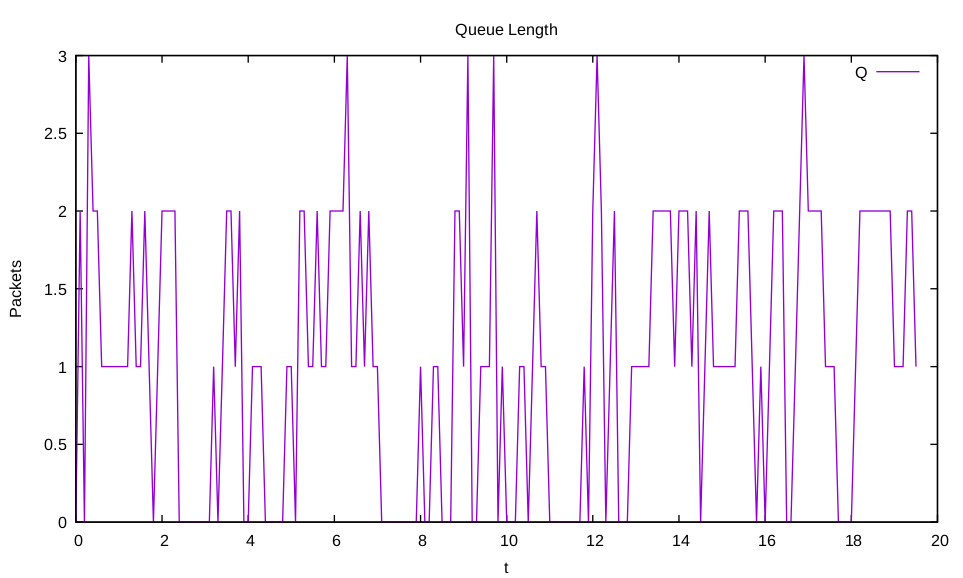
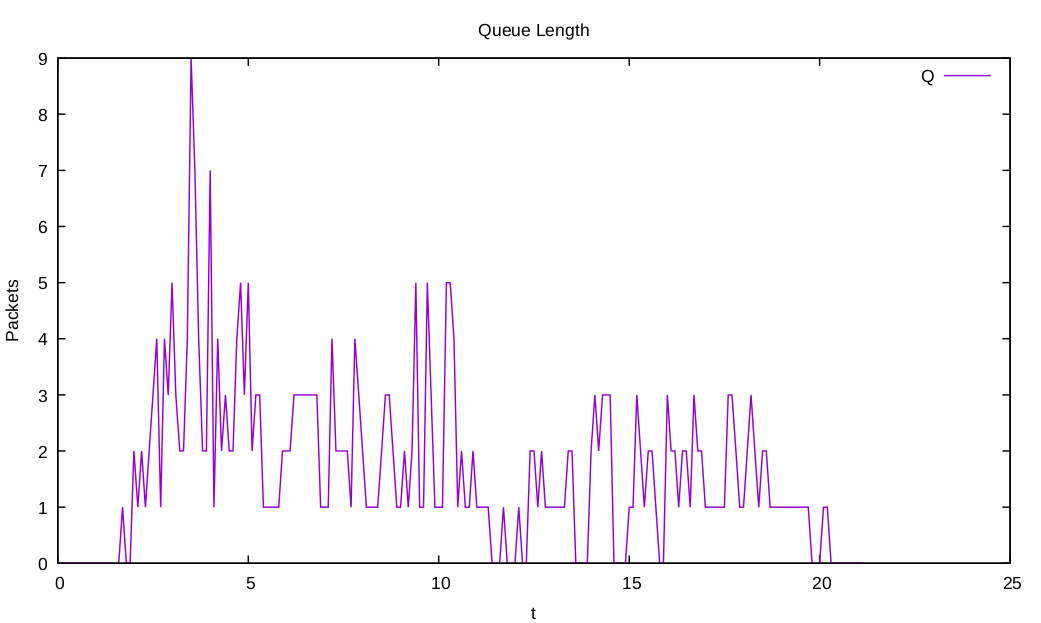
Added tag v2.0

diff --git a/NetMonitoring/src/Model.py b/NetMonitoring/src/Model.py
@@ -1,14 +1,18 @@
 from mininet.topo import Topo
+from mininet.link import TCLink
 
+'''Файл моделируемой топологии'''
 
 class OwnTopology(Topo):
 
     def __init__(self, **opts):
         super(OwnTopology, self).__init__(**opts)
-        host1 = self.addHost('h%s' % 1, cpu=.5 / 3, ip="10.0.0.1/8")
-        host2 = self.addHost('h%s' % 2, cpu=.5 / 3, ip="10.0.0.2/8")
-        host3 = self.addHost('h%s' % 3, cpu=.5 / 3, ip="10.0.0.3/8")
+        
+        '''Создание узлов сети'''
+        host1 = self.addHost('h%s' % 1)
+        host2 = self.addHost('h%s' % 2)
         switch1 = self.addSwitch('s%s' % 1)
-        self.addLink(host1, switch1, bw=10, delay='5ms', loss=1, max_queue_size=1000, use_htb=True)
-        self.addLink(host2, switch1, bw=10, delay='5ms', loss=1, max_queue_size=1000, use_htb=True)
-        self.addLink(host3, switch1, bw=10, delay='5ms', loss=1, max_queue_size=1000, use_htb=True)
+        ''''Соединение узлов с заданными характеристиками'''
+        self.addLink(host1, switch1, cls=TCLink, bw=100, delay='25ms', loss=1, max_queue_size=50)
+        self.addLink(host2, switch1, cls=TCLink, bw=100, delay='25ms', loss=1, max_queue_size=50)
+        

diff --git a/NetMonitoring/src/main.py b/NetMonitoring/src/main.py
@@ -1,25 +1,16 @@
 from mininet.net import Mininet
+from mininet.cli import CLI
 from mininet.node import CPULimitedHost
 from mininet.link import TCLink
 from Model import OwnTopology
-from Monitor import Monitor
-
 
 
 def simulation():
     topology = OwnTopology()
     net = Mininet(topo=topology, host=CPULimitedHost, link=TCLink)
-    monitor = Monitor()
-
     net.start()
-    monitor.monitoring_qlen(interval_sec=0.1)
-
-    h1, h2 = net.get('h1', 'h2')
-    monitor.iperf_output(h1, h2,  "-t 20")
-
-    monitor.stop_monitoring()
+    CLI(net)
     net.stop()
-
 
 
 if __name__ == '__main__':

diff --git a/NetMonitoring/NetMonitoring.md b/NetMonitoring/NetMonitoring.md
@@ -16,44 +16,174 @@
 - iperf3 (https://iperf.fr/)
 - iperf3_plotter (https://github.com/ekfoury/iperf3_plotter)
 
+
+## Описание топологии сети
+
+Далее в работе мы будем использовать сеть со следующей топологией:
+
+- 2 узла (h1 и h2 с адресами 10.0.0.1 и 10.0.0.2 соответственно);
+- коммутатор s1;
+- 2 соединения (h1-s1 и s1-h2) со следующими характеристиками:
+    - пропускная способность равна 100Мбит/с;
+    - задержка распространения сигнала между узлами равна 25мс;
+    - процент потерь пакетов на соединении равен 1%;
+    - максимальная буферная память равна 50 пакетам.
+
+![Топология сети](screens/topo.png)
+
+**Model.py** - файл моделируем топологии. В данном файле следующие строки
+
+```python
+host1 = self.addHost('h%s' % 1)
+host2 = self.addHost('h%s' % 2)
+switch1 = self.addSwitch('s%s' % 1)
+```
+
+отвечают за создание 2-х хостов и свича, а строки
+
+```python
+self.addLink(host1, switch1, cls=TCLink, bw=100, delay='25ms', loss=1, max_queue_size=50)
+self.addLink(host2, switch1, cls=TCLink, bw=100, delay='25ms', loss=1, max_queue_size=50)
+```
+
 ## Выполнение работы
 
 1. Перейдем в директорию src.
-2. Файл main.py запускает симуляцию, подгружая модули Model и Monitor. Model формирует нашу исследуемую модель, а Monitor включает мониторинг некоторых характеристик сети. В симуляции запускается метод iperf_output(interface, interval_sec, filename) и monitoring_qlen(client, server, params,  filename). 
-3. Сделаем файл plot_qlen исполняемым.
+2. Файл **main.py** запускает симуляцию, подгружая модуль **Model**. В функции **simulation** происходит симуляция работы нашей сети. Данную функцию мы вызываем в главной функции **main**. Следующие строки в файле **main.py**.
 
-```bash
-chmod +x plot_qlen
+```python
+topology = OwnTopology()
+net = Mininet(topo=topology, host=CPULimitedHost, link=TCLink)
 ```
 
-4. Например, у нас имеется 2 узла (h1, h2) и коммутатор (s1), к которому они подключены (изменять исходные данные можно в файле Model.py). Мы хотим исследовать соединение s1-eth1 и посмотреть характеристики передавачи данных от узла h1 до h2. Запустим симуляцию.
+создают объект **topology**, который передается параметром в объект **net** класса **Mininet**, тем самым инициализируя нашу топологию. Далее мы будем работать только с объектом **net**. Методы **start** и **stop** класса **Mininet** отвечают за старт сети и ее завершение соответственно. **CLI(net)** запускает сеть в режиме CLI.
+
+
+3. Перейдем в директорию src. Сделаем файлы **qlen_monitor** и **plot_qlen** (директория monitoring) исполняемым.
+
+```bash
+cd src
+chmod +x qlen_monitor
+chmod +x monitoring/plot_qlen
+```
+
+4. Запустим нашу сеть командой
 
 ```bash
 sudo python3.8 main.py
 ```
 
-5. В рабочей директории создались файлы file.json и qlen.txt. В данных файлах содержаться характеристики исследуемой сети. 
-6. Запустим скрипты для создания графиков характеристик сетевых соединений. 
+5. Откроем дополнительный терминал и запустим скрипт для мониторинга очереди **qlen_monitor**.
 
 ```bash
-plot_iperf.sh file.json & ./plot_qlen 
+./qlen_monitor s1-eth1 0.1 qlen1.txt
 ```
-7. Сформированный файл queue.pdf - это график роста очереди со временем.
 
-![График роста очереди](screens/queue_plot.png)
+Первый параметр - имя сетевого соединения, которое мы хотим рассмотреть, второй параметр - частота, с которой мы будем делать измерение, третий параметр - файл, в который будет производиться запись.
 
-8. В директории result находятся графики следующих характеристик сетевого соединения: количество переданных данных, CWND, MTU, ретрансляция данных, RTT, RTT Var, пропускная способность.
+6. Подождем пару секунд и с помощью сочетания клавиш Ctrl+C завершим работу скрипта. Посмотрим на содержимое файла.
 
-![Количество переданных данных](screens/bytes.png)
+```bash
+cat monitoring/qlen1.txt
+```
+
+В данном файле столбец 1 отвечает за время замеров очереди, а столбец 2 за фактическое значение очереди. Сейчас все значения второго столбца равны нулю.
+
+7. В CLI откроем терминалы для хостов h1 и h2. 
+
+```bash
+xterm h1 h2
+```
+
+8. Запустим iperf3-сервер на хосте h2.
+
+```bash
+iperf3 -s
+```
+
+9. Запустим iperf3-клиент на хосте h1.
+
+```bash
+iperf3 -c 10.0.0.2 -t 20 -J > monitoring/data.json
+```
+
+iperf3 генерирует данные и по протоколу TCP отправляет их на iperf3-сервер. Параметр t отвечает за время работы соединения, а J за генерацию файла формата json, в котором будут содержаться характеристики передачи данных.
+
+10. Одновременно с запуском iperf3-клиента запустим **qlen_monitor**. Остановим qlen_monitor, как только iperf3-клиент завершит работу
+
+![Измерение характеристик сетевых соединений](screens/sim.png)
+
+11. Запустим **plot_qlen** и **plot_iperf.sh** для вывода данных в графическом представлении.
+
+```bash
+cd monitoring
+plot_iperf.sh data.json && gnuplot -c plot_qlen qlen1.txt qlen1.pdf
+```
+
+Параметрами для скрипта **plot_qlen** являются файл с данными очереди и имя файла, который будет сгенерирован.
+
+В результате выполнения скриптов создается файл qlen1.pdf и директория result, в которой находятся все данные, снятые с iperf3.
+
+
+12. Рассмотрим полученные графики. 
+
+- queue_plot.pdf - график, на котором показаны размер очереди в некоторый момент времени. Видим, что очередь сравнительно небольшая (в пике 9 пакетов), хотя и это значение влияет RTT. 
+
+![График изменения очереди](screens/queue_plot.png)
+
+- cwnd.pdf - график, который показывает значение окна перегрузки. Видим, что окно не может найти свое оптимальное значение, так как в параметрах соединения указана высокая частота потерь пакетов. 
 
 ![CWND](screens/cwnd.png)
 
+- MTU.pdf - график значения максимальной длины пакета. Видим, что значение mtu - константа, которая равна 1500 байт.
+
 ![MTU](screens/mtu.png)
+
+- retransmits.pdf - график значения количества повторно переданных пакетов. Видим, что максимальное количество повторно переданных пакетов равно 8. Повторная передача связана с потерями в сети, а шанс потери пакета, как мы задавали в модели, равно 1%.
 
 ![Ретрансляция данных](screens/retransmits.png)
 
+- RTT.pdf - график значения RTT (в микросекундах). На значение RTT влияет задержка распространения сигнала в сети и значение очереди. Видим, что RTT колеблется в пределах от 100мс до 160мс.
+
 ![RTT](screens/rtt.png)
 
-![RTT_Var](screens/rtt_var.png)
+- RTT.pdf - график изменения RTT. Видим, что RTT достаточно резко повышается и понижается в некоторых промежутках времени.
+
+![Изменение RTT со временем](screens/rtt_var.png)
+
+- throughput.pdf - график значения пропускной способности Видим, что скорость колеблется от 0 до 5МБ, что очень мало для сети, с заявленой пропускной способностью 100МБ.
 
 ![Пропускная способность](screens/throughput.png)
+
+13. Изменим данные в модели. Остановим CLI с помощью команды **exit** и откроем файл Model.py. Заменим строки 
+
+```python
+self.addLink(host1, switch1, cls=TCLink, bw=100, delay='25ms', loss=1, max_queue_size=50)
+self.addLink(host2, switch1, cls=TCLink, bw=100, delay='25ms', loss=1, max_queue_size=50)
+```
+на 
+
+```python
+self.addLink(host1, switch1, cls=TCLink, bw=50, delay='25ms', loss=0.01, max_queue_size=50, use_tbf=True)
+self.addLink(host2, switch1, cls=TCLink, bw=50, delay='25ms', loss=0.01, max_queue_size=50, use_tbf=True)
+```
+
+Здесь мы уменьшаем полосу пропускания пакетов до 50МБ, уменьшаем количество потерь до 0.01%. Помимо этого мы включаем tbf (алгоритм, который гарантирует некоторую скорость передачи данных). Сохраняем файл, запускаем сеть и проделываем инструкции с 7 по 11 пункт. 
+
+14. Рассмотрим как изменилось поведение нашей сети. Здесь нас интересует значение очереди
+
+- Значение cwnd значительно увеличилось из-за того, что количество потерянных пакетов в сети уменьшилось до 0.01%, что в свою очередь дает больший прирост количества передаваемых данных. 
+
+![CWND](screens/2cwnd.png)
+
+- Количество повторно переданных пакетов стало меньше. Связано это с уменьшением количества потерь на линии связи.
+
+![Ретрансляция данных](screens/2retransmits.png)
+
+- Пропускная способность сильно увеличилась (благодаря уменьшению потерь) и стала стабильной (благодаря включению tbf).
+
+![Пропускная способность](screens/2throughput.png)
+
+- Размер очереди сильно изменился из-за того, что количество пакетов, приходящих на коммутатор, резко увеличилось в сравнении с первым опытом. 
+
+![График изменения очереди](screens/2queue_plot.png)
